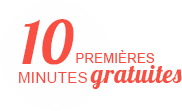
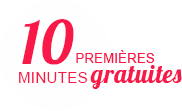
Change in color scheme and images

diff --git a/scss/numerologie-amour.scss b/scss/numerologie-amour.scss
@@ -19,9 +19,9 @@ $img_dir : "../images_landing/numerologie-amour/";
 $color1 : #225b70; // pour les labels alternés 
 $color2 : #f05882; // rose pour les boutons et "femme"
 $color3 : #0ae9d1; // turquoise pour "homme"
-$color4 : #28b1d3; // bleu clair pictos reassurance
+$color4 : #f81948; // bleu clair pictos reassurance
 $color5 : #ffffff; // background blanc reassurance
-$color6 : #f94f43; // orange pour boutons et liens 
+$color6 : #f81948; // orange pour boutons et liens 
 
 $font1: 'Amatic SC', cursive; //titre-princip1
 $font2: 'Cookie', cursive; //titre-princip1
@@ -49,11 +49,11 @@ body {
 }
 
 .bg1{
-    background: $bg url($img_dir+"bg1.jpg") no-repeat center top fixed;
+    background: $bg url($img_dir+"background.jpg") no-repeat center top fixed;
     background-size: cover;
 }
 .bg2{
-    background: $bg url($img_dir+"bg2.jpg") no-repeat center top fixed;
+    background: $bg url($img_dir+"background-dri.jpg") no-repeat center top fixed;
     background-size: cover;
 }
 
@@ -243,9 +243,6 @@ button{
 }
 
 
-.blueLabel{
-    color:$color1 !important;
-}
 
 .FormField-Label {
     text-transform: uppercase;
@@ -363,7 +360,7 @@ input[type="checkbox"], input[type="radio"] {
     border:0px solid red;
 }
 #photo1{
-    background: url($img_dir+"pola1.png") center no-repeat;
+    background: url($img_dir+"pola2.png") center no-repeat;
     background-size: contain;
     position: absolute;
     top:10rem;
@@ -372,7 +369,7 @@ input[type="checkbox"], input[type="radio"] {
    
 }
 #photo2{
-    background: url($img_dir+"pola2.png") center no-repeat;
+    background: url($img_dir+"pola1.png") center no-repeat;
     background-size: contain;
     position: absolute;
     top: 25rem;
@@ -409,6 +406,10 @@ input[type="checkbox"], input[type="radio"] {
 }
 
 /* ************** FOOTER *************** */
+.SiteCopyright a {
+  text-decoration: none;
+  color: #fff;
+}
 .ReassuranceList {
     background-color: $color5;
     color: $color4;

diff --git a/css/numerologie-amour.css b/css/numerologie-amour.css
@@ -2342,4 +2342,4 @@ input[type="checkbox"], input[type="radio"] {
     background-position: top left;
     background-size: auto 75%; } }
 
-/*# sourceMappingURL=numerologie-amour.min.css.map */
+/*# sourceMappingURL=numerologie-amour.css.map */

diff --git a/numerologie-amour.php b/numerologie-amour.php
@@ -83,7 +83,7 @@ $question = ['code'=>'NA_chiffre'.$chiffre, 'subject'=>'signe', 'text'=>'Numéro
                                     </div>
                                 </div>
                                 <div class="FormField">
-                                    <label for="name" class="FormField-Label blueLabel">Prénom</label>
+                                    <label for="name" class="FormField-Label ">Prénom</label>
                                     <input type="text" id="name" name="prenom" class="FormField-Input" required />
                                 </div>
                                 <div class="FormField">
@@ -125,7 +125,7 @@ $question = ['code'=>'NA_chiffre'.$chiffre, 'subject'=>'signe', 'text'=>'Numéro
                                     </div>
                                 </div>
                                 <div class="FormField sonprenom show">
-                                    <label for="son_prenom" class="FormField-Label blueLabel">Son prénom</label>
+                                    <label for="son_prenom" class="FormField-Label ">Son prénom</label>
                                     <input type="text" id="son_prenom" name="conjoint" class="FormField-Input" required />
                                 </div>
                                 <div class="FormField">
